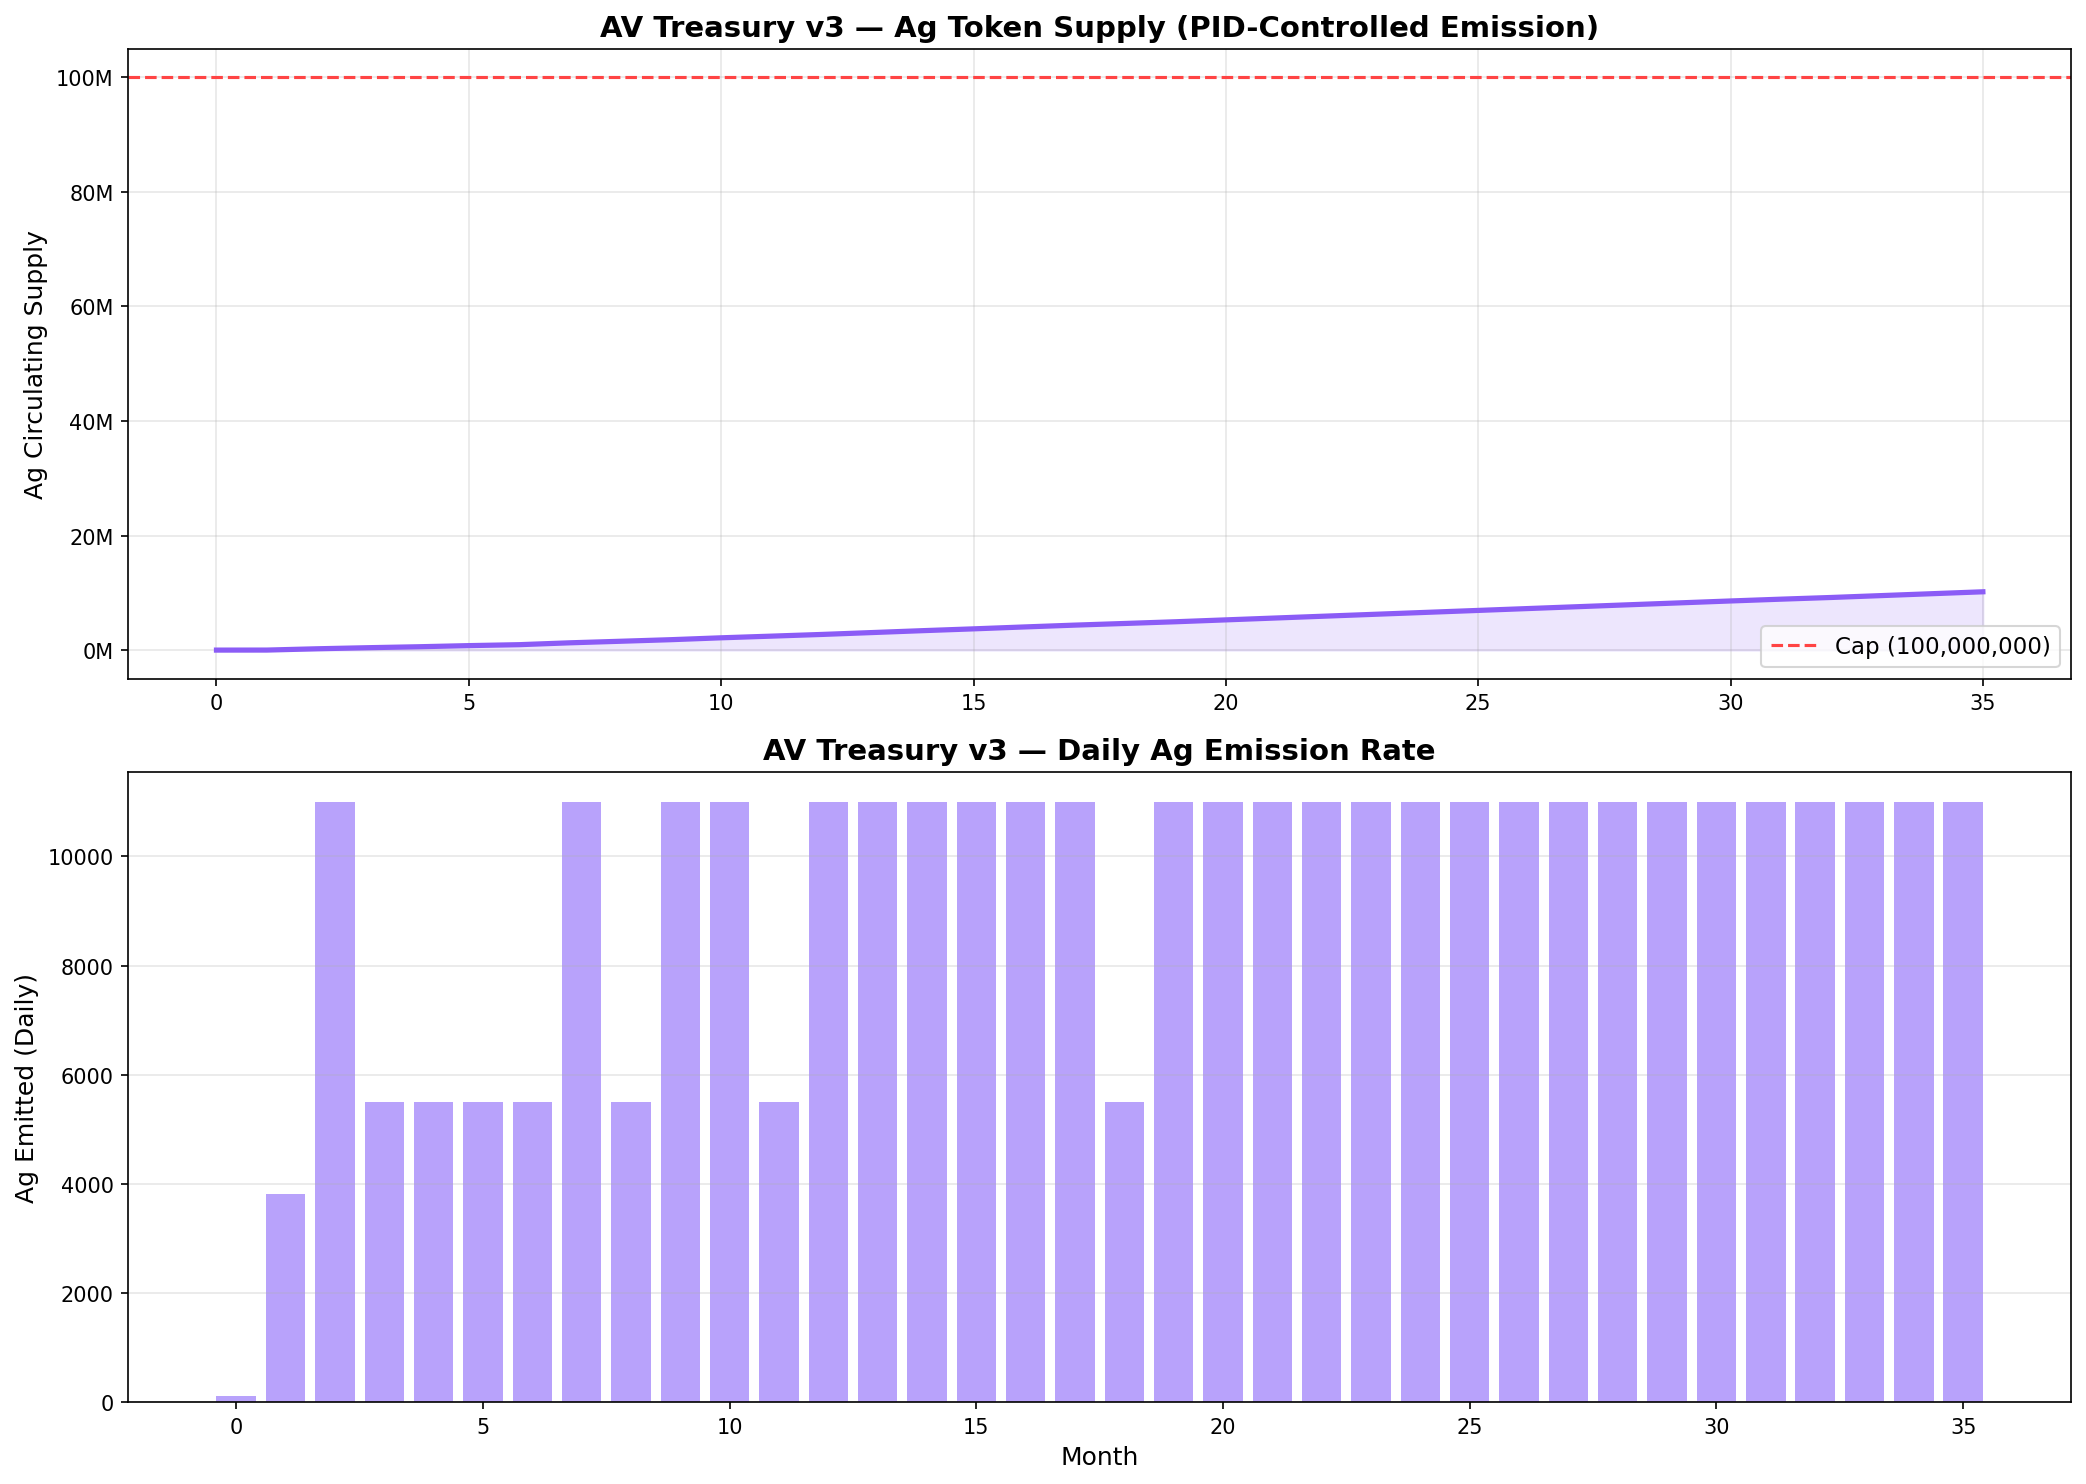
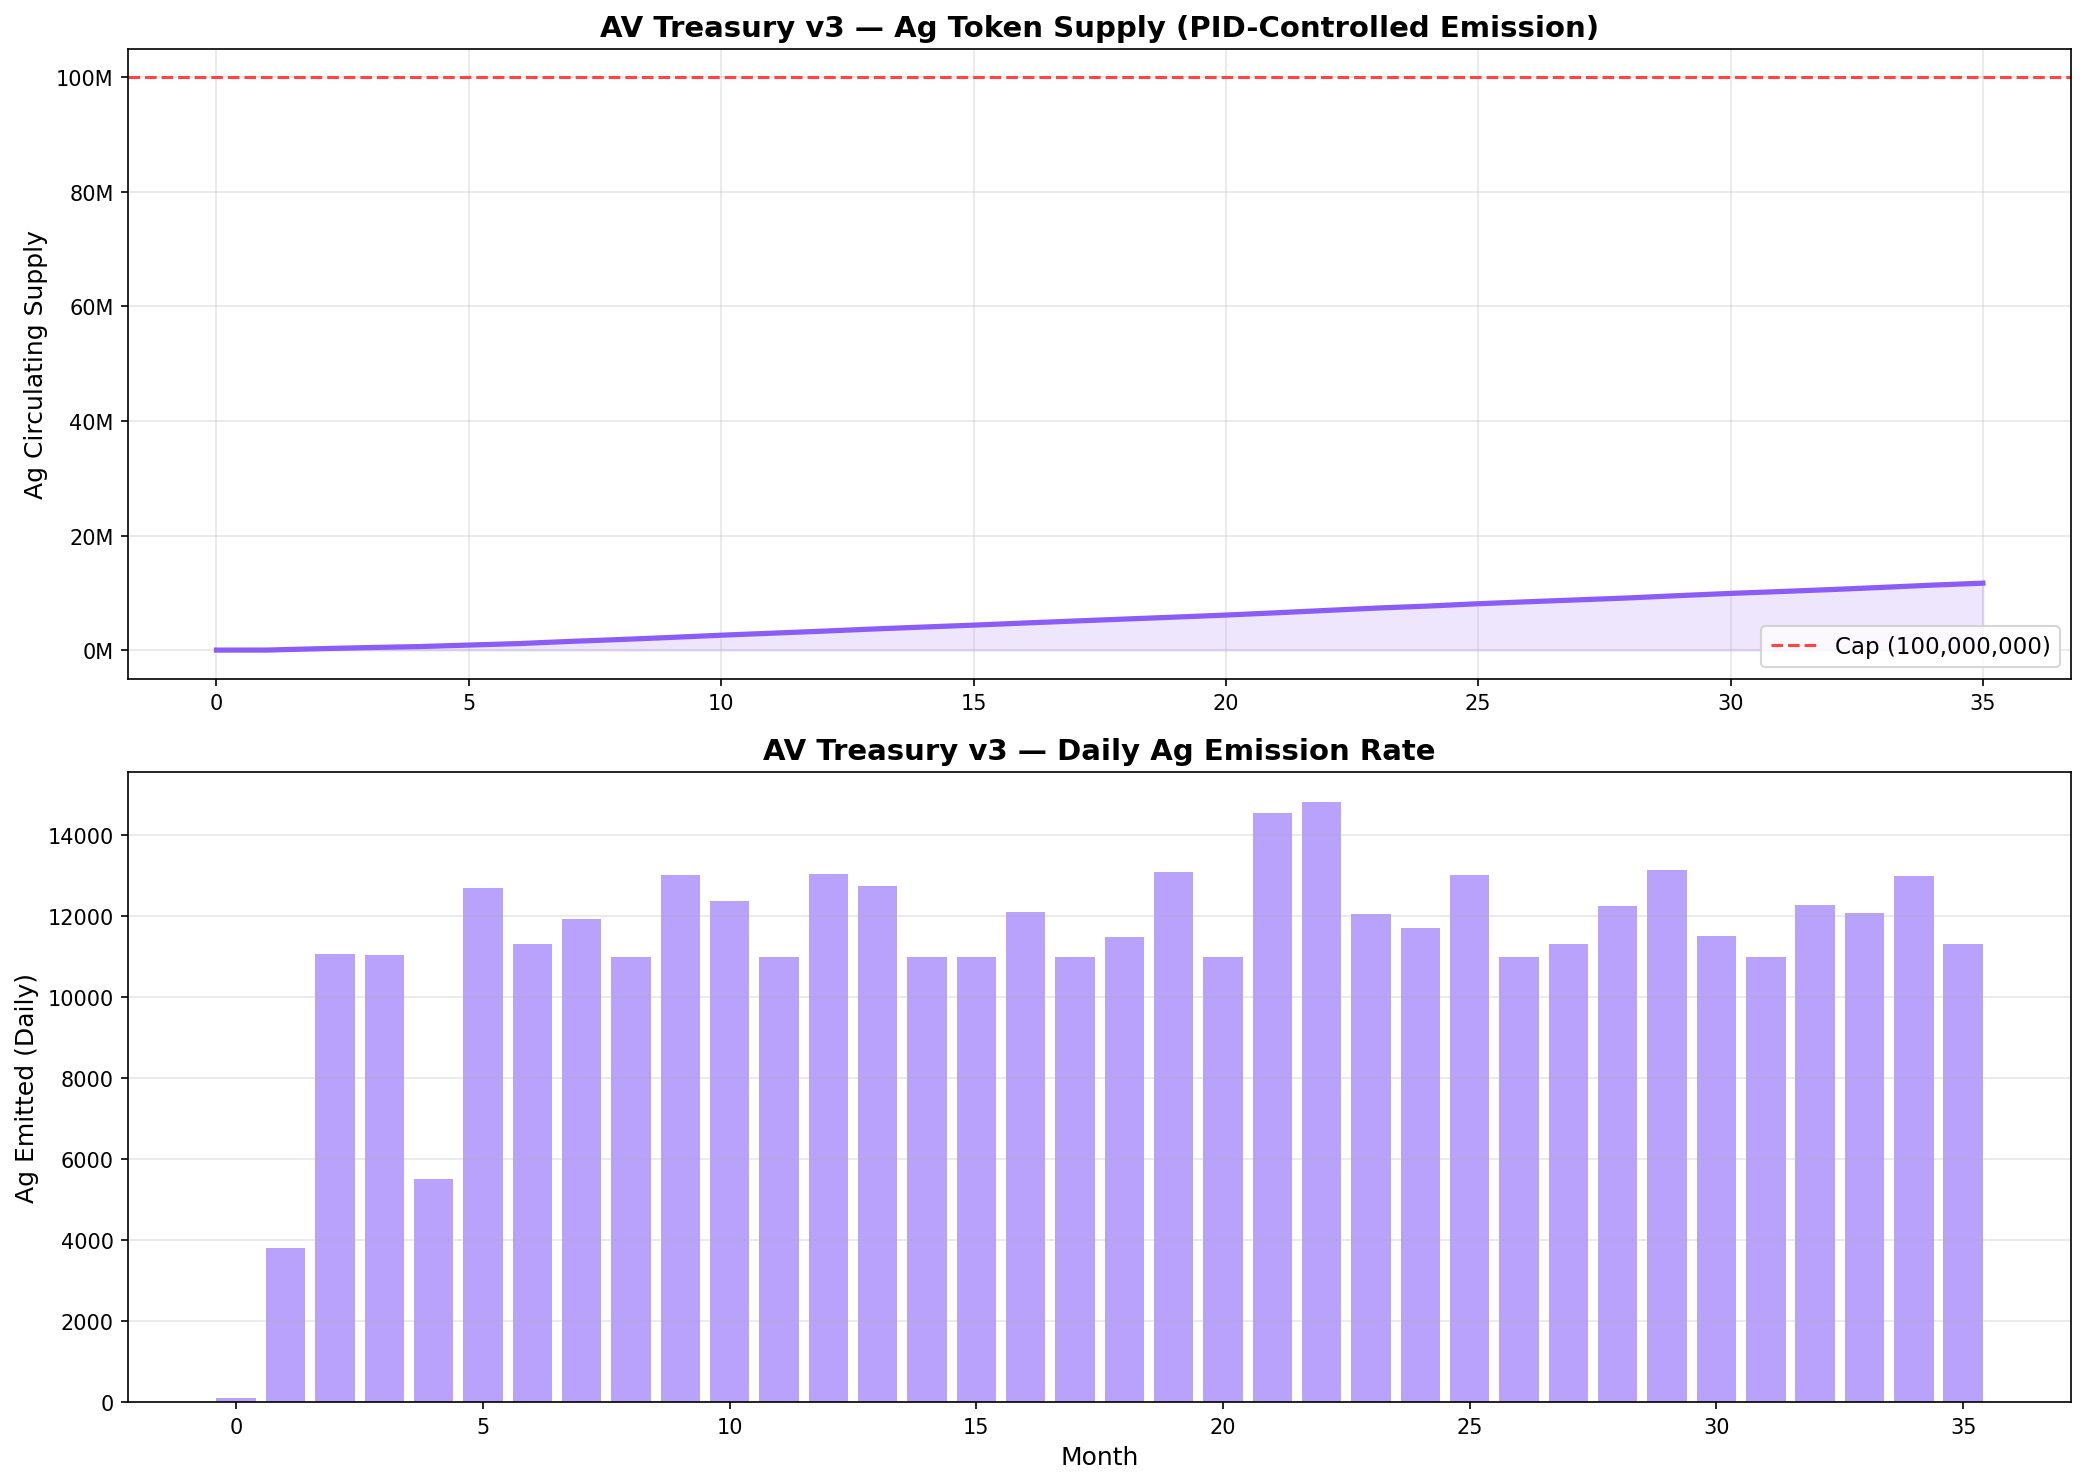
AV Treasury v3.1 — Simulator update with new parameters
- Staking multiplier: 1.5x → 2.5x (MAX_MULT 15000→25000)
- Dynamic emission cap: base 11K, max 50K, scales with 30-day TVL growth
- Added tvl_history tracking for dynamic cap calculation
- Simulation results: Au -51%, Ag +5544%, TVL +765%, 11.7% Ag cap utilization
- All 7 charts generated

diff --git a/simulator/simulate.py b/simulator/simulate.py
@@ -33,14 +33,37 @@ AU_MAX_FLASH_MINT = 1_000_000
 
 # Ag Token
 AG_MAX_SUPPLY = 100_000_000
-AG_INITIAL_DAILY_CAP = 11_000
+# Dynamic Emission Cap (v3.1)
+AG_BASE_DAILY_CAP = 11_000    # Floor — minimum daily emission
+AG_MAX_DAILY_CAP = 50_000     # Ceiling — maximum daily emission
+
+def get_dynamic_daily_cap(state, day, tvl_history):
+    """Calculate daily emission cap based on 30-day TVL growth rate."""
+    if day < 30 or len(tvl_history) < 30:
+        return AG_BASE_DAILY_CAP
+    
+    tvl_30d_ago = tvl_history[max(0, len(tvl_history) - 30)]
+    current_tvl = state['tvl']
+    
+    if tvl_30d_ago <= 0:
+        return AG_BASE_DAILY_CAP
+    
+    growth_rate = (current_tvl - tvl_30d_ago) / tvl_30d_ago
+    growth_rate = min(growth_rate, 4.0)  # Cap at 400%
+    
+    if growth_rate <= 0:
+        return AG_BASE_DAILY_CAP
+    
+    # Linear interpolation: 0% growth → base, 400% growth → max
+    dynamic_cap = AG_BASE_DAILY_CAP + (AG_MAX_DAILY_CAP - AG_BASE_DAILY_CAP) * growth_rate / 4.0
+    return min(dynamic_cap, AG_MAX_DAILY_CAP)
 AG_SINGLE_CAP = 10_000
 
-# Staking Multiplier
+# Staking Multiplier (v3.1: 1.5x → 2.5x max)
 STAKING_BASE_MULT = 10000
-STAKING_MULT_NUM = 15000
+STAKING_MULT_NUM = 25000
 STAKING_MULT_DEN = 5000
-STAKING_MAX_MULT = 20000
+STAKING_MAX_MULT = 25000
 
 # PID Controller
 PID_KP = 0.12
@@ -90,6 +113,7 @@ state = {
 }
 
 history = []
+tvl_history = []
 
 # ============ HELPERS ============
 
@@ -154,6 +178,7 @@ def run_simulation():
         # Net TVL change = market trend + buyback support + staking yield - volatility drag
         tvl_change = ag_return * 0.3 + buyback_effect + staking_yield_effect
         state['tvl'] = max(100_000, state['tvl'] * (1 + tvl_change) * tvl_noise)
+        tvl_history.append(state['tvl'])
         
         # TWATVL EMA
         state['twatvl'] = (
@@ -189,12 +214,14 @@ def run_simulation():
         state['pid_prev_error'] = current_target - state['twatvl']
         
         if state['ag_price'] > 0:
-            ag_to_emit_usd = min(pid_output, AG_INITIAL_DAILY_CAP * state['ag_price'])
+            dynamic_cap = get_dynamic_daily_cap(state, day, tvl_history)
+            ag_to_emit_usd = min(pid_output, dynamic_cap * state['ag_price'])
             ag_to_emit = ag_to_emit_usd / state['ag_price']
         else:
             ag_to_emit = 0
         
-        ag_to_emit = min(ag_to_emit, AG_INITIAL_DAILY_CAP - total_today)
+        dynamic_cap = get_dynamic_daily_cap(state, day, tvl_history)
+        ag_to_emit = min(ag_to_emit, dynamic_cap - total_today)
         ag_to_emit = max(0, ag_to_emit)
         
         if state['ag_circulating'] + ag_to_emit > AG_MAX_SUPPLY:

diff --git a/simulator/simulation_report.md b/simulator/simulation_report.md
@@ -6,8 +6,8 @@
 |--------|---------|----------|--------|
 | Au Price | $0.0100 | $0.0049 | -51.1% |
 | Ag Price | $0.0992 | $5.5965 | +5544.1% |
-| TVL | $497,623 | $1,643,522 | +230.3% |
-| Ag Supply | 108 | 10,176,641 | +10,176,533 |
+| TVL | $497,623 | $4,303,430 | +764.8% |
+| Ag Supply | 108 | 11,685,872 | +11,685,764 |
 | Treasury | $7,034 | $10,254 | +45.8% |
 
 ## Key Metrics
@@ -15,8 +15,8 @@
 ### Token Performance
 - **Au Price (Month 36):** $0.0049
 - **Ag Price (Month 36):** $5.5965
-- **Ag Total Minted:** 10,176,641 / 100,000,000 cap
-- **Ag Utilization:** 10.2%
+- **Ag Total Minted:** 11,685,872 / 100,000,000 cap
+- **Ag Utilization:** 11.7%
 
 ### Treasury Health
 - **Total Fees Accumulated:** $18,546.75
@@ -25,14 +25,14 @@
 - **Treasury Reserves:** $10,254.47
 
 ### Staking
-- **Final Multiplier:** 2.00x
-- **Staked LP Value:** $162,277.65
+- **Final Multiplier:** 2.50x
+- **Staked LP Value:** $386,647.01
 
 ### PID Controller
 - **TVL Target:** $5,000,000
-- **Final TWATVL:** $1,460,409
-- **Final TVL:** $1,643,522
-- **Tracking Error:** 67.1%
+- **Final TWATVL:** $3,541,994
+- **Final TVL:** $4,303,430
+- **Tracking Error:** 13.9%
 
 ## Charts Generated
 
